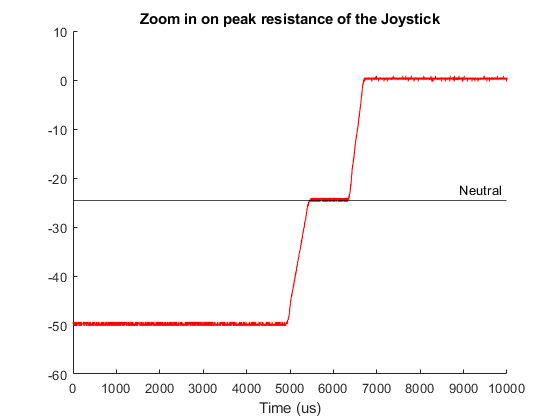
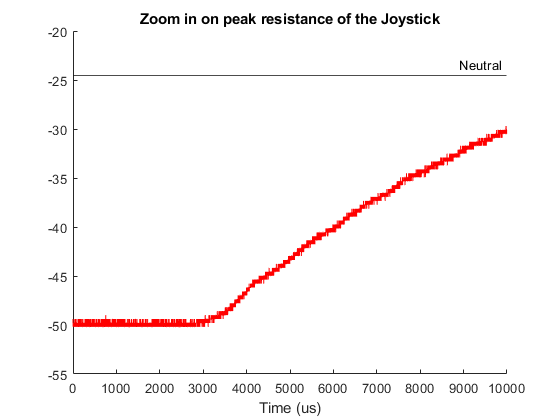
🐛 Fix wrong image being output from data

diff --git a/Personal/Controller Project/Measurements/ConversionJoystick.m b/Personal/Controller Project/Measurements/ConversionJoystick.m
@@ -63,10 +63,10 @@ figDataHighPeak = figure("Name","Joystick - DataHighPeak");
 figure(figDataHighPeak);
 figDataHighPeak.Position(1:2) = [figHorizontalOffset * figHorizontalIndex,...
                                 figVerticalOffset * figVerticalIndex];
-load dataDeadzone.csv
+load dataHighPeak.csv
 hold on
 title("Zoom in on peak resistance of the Joystick")
 yline(-24.5,"k-",{"Neutral"});
 xlabel("Time (us)")
-plot(dataDeadzone(:,2), "r-","LineWidth",0.1);
+plot(dataHighPeak(:,2), "r-","LineWidth",0.1);
 hold off

diff --git a/The Making Of A Controller.md b/The Making Of A Controller.md
@@ -69,4 +69,4 @@ Due to the sheer length of the article, I've decided to move it to it's own dedi
 | Low->Mid, Focused on peak| [Measurement Data](/Personal/Controller%20Project/Measurements/dataLowPeak.csv) | ![A rising edge diagram](/Personal/Controller%20Project/Measurements/Joystick-LowPeak.png)|
 | Deadzone| [Measurement Data](/Personal/Controller%20Project/Measurements/dataDeadzone.csv) | ![A rising edge diagram](/Personal/Controller%20Project/Measurements/Joystick-Deadzone.png)|
 | Low->Mid| [Measurement Data](/Personal/Controller%20Project/Measurements/Joystick-High.png) | ![A rising edge diagram](/Personal/Controller%20Project/Measurements/Joystick-High.png)|
-| Low->Mid| [Measurement Data](/Personal/Controller%20Project/Measurements/data%20High%20Peak.csv) | ![A rising edge diagram](/Personal/Controller%20Project/Measurements/Joystick-HighPeak.png)|
+| Low->Mid| [Measurement Data](/Personal/Controller%20Project/Measurements/dataHighPeak.csv) | ![A rising edge diagram](/Personal/Controller%20Project/Measurements/Joystick-HighPeak.png)|
